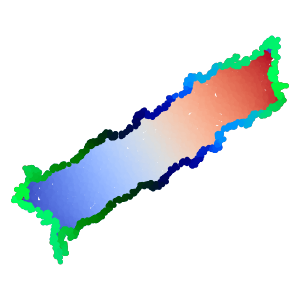
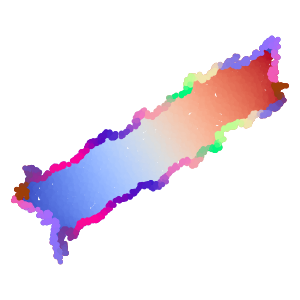
Fix: Readme example and tear coloring improvement

Changed region(s): [[0.03, 0.12, 0.96, 0.9]]

diff --git a/README.md b/README.md
@@ -37,13 +37,14 @@ model = rats.RATS(d=2, k=28, eta_min=5, to_tear=True)
 y = model.fit_transform(X)
 
 # compute the gluing instructions along the tear
-color_of_pts_on_tear = model.compute_color_of_pts_on_tear(y)
+tear_color_eig_inds = [7, 2, 4]
+color_of_pts_on_tear = model.compute_color_of_pts_on_tear(y, tear_color_eig_inds)
 
 # plot the resulting 2d representation of the manifold
 vis.Visualize().global_embedding(
   y, labels[:,0],
-  color_of_pts_on_tear=color_of_pts_on_tear[:,[0, 1, 2]],
-  cmap0='summer', cmap1='jet',
+  color_of_pts_on_tear=color_of_pts_on_tear[:,tear_color_eig_inds],
+  cmap0='coolwarm',
   figsize=(3, 3)
 )
 ```
